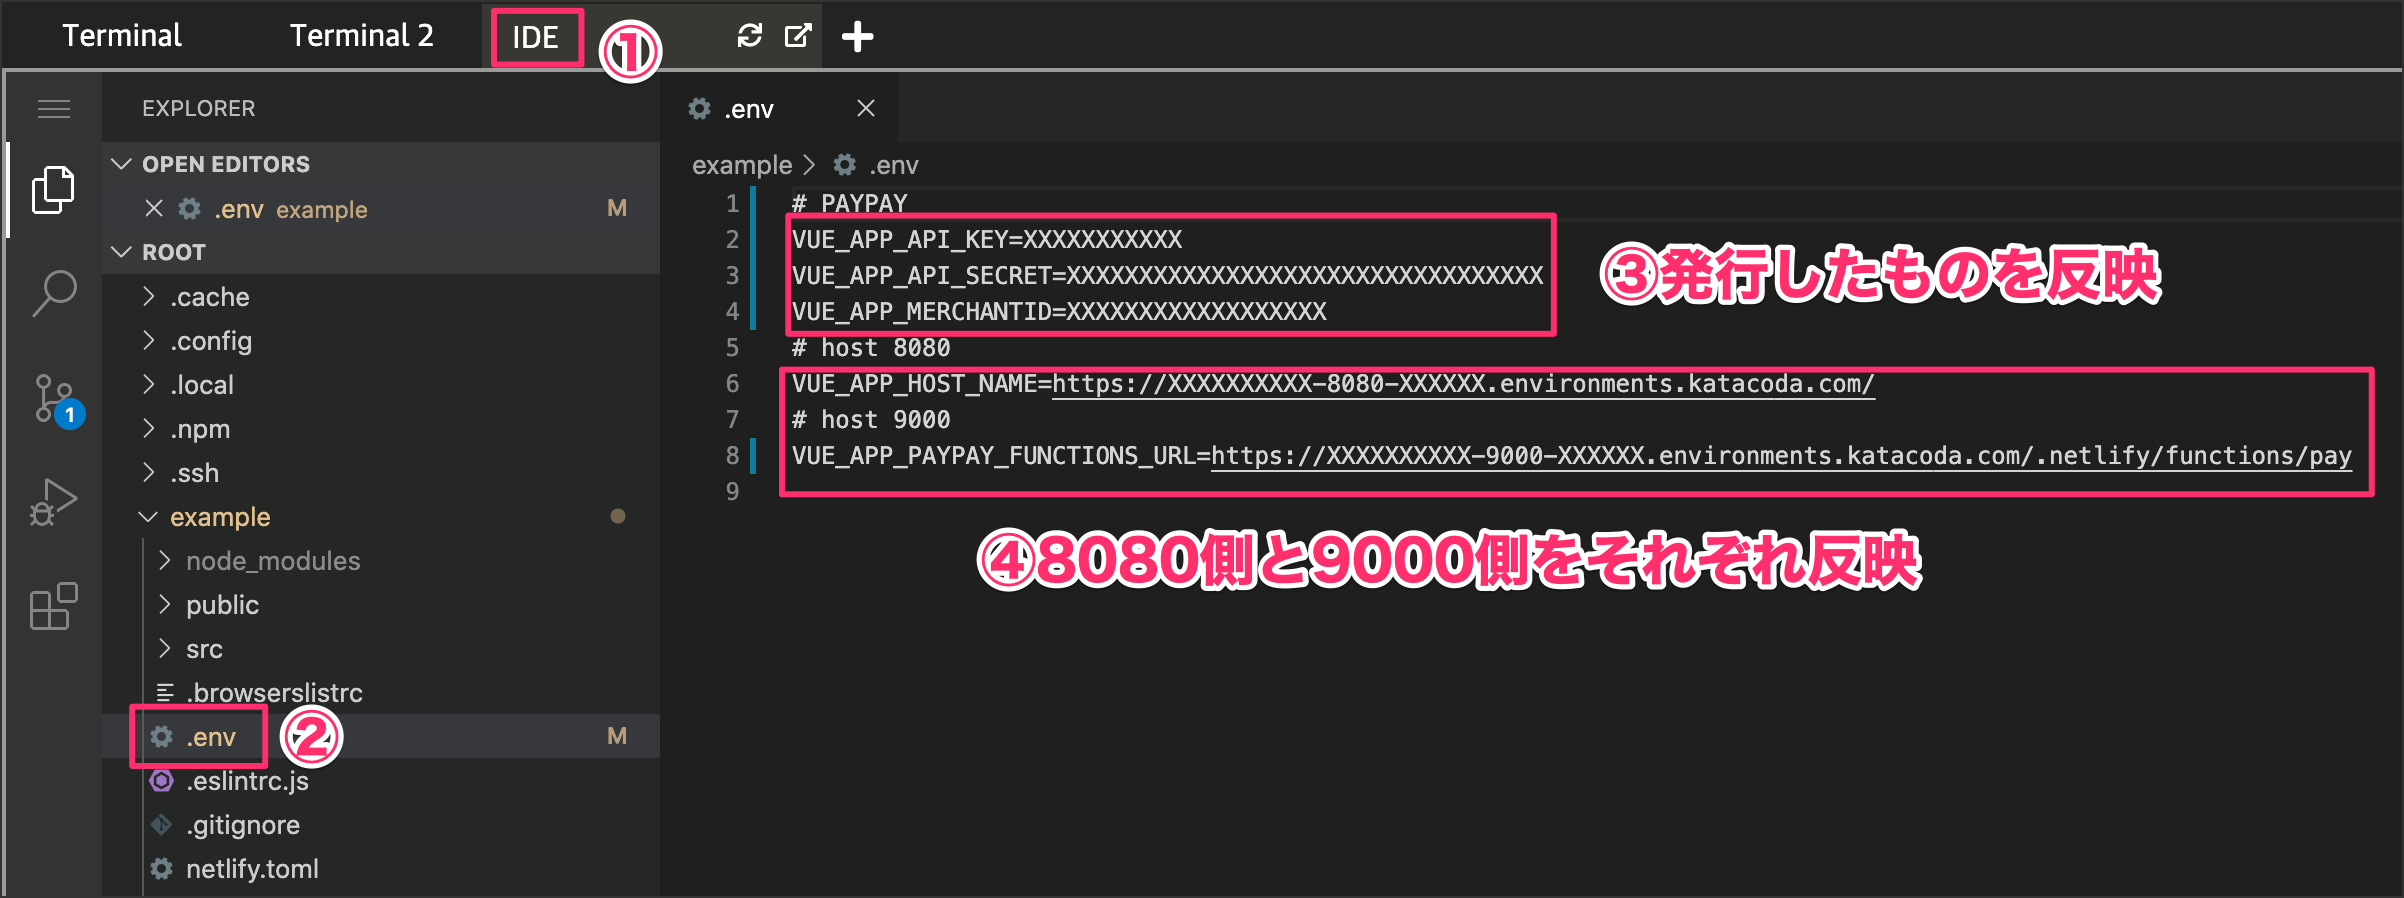
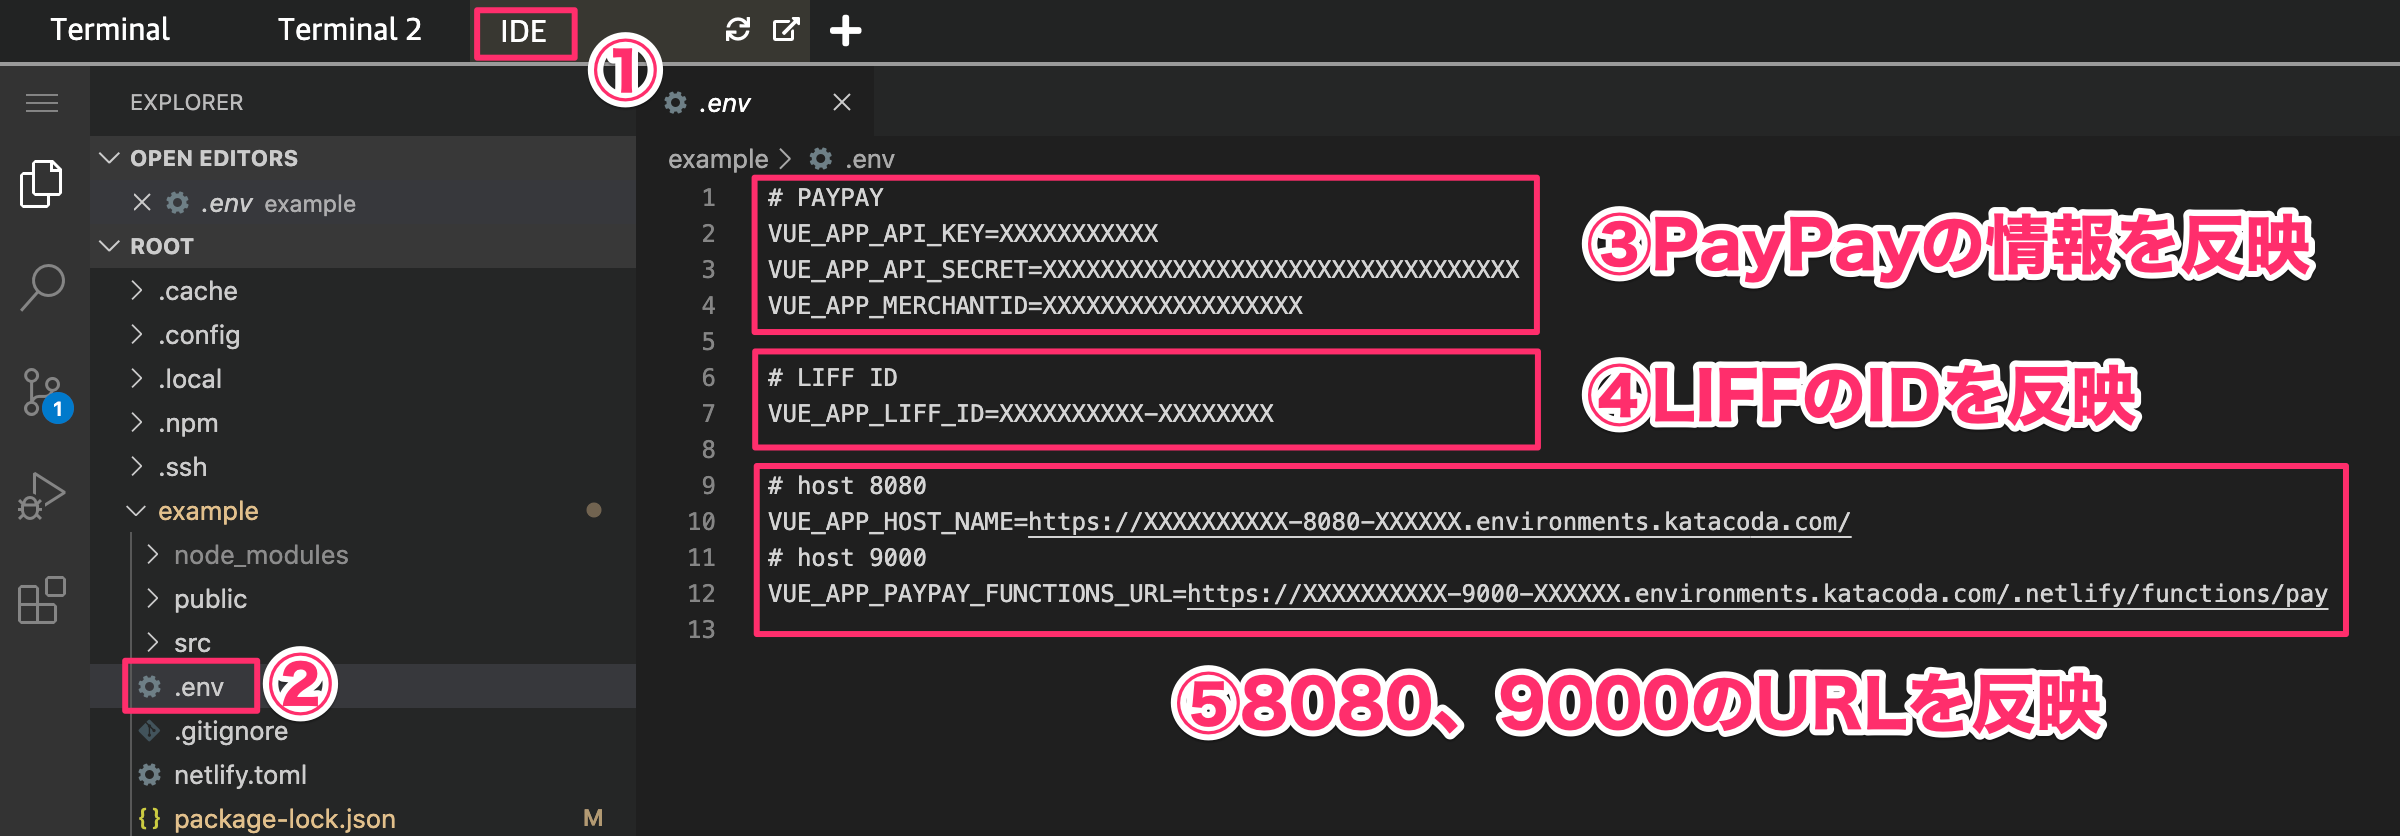
画像差し替え

Changed region(s): [[0.0, 0.0, 1.0, 0.9952], [0.0, 0.6531, 0.0312, 0.7464], [0.25, 0.7775, 0.2812, 0.8397]]

diff --git a/paypay-liff-handson-playground/step4.md b/paypay-liff-handson-playground/step4.md
@@ -11,7 +11,7 @@ IDEタブをクリックしてVSCodeを起動します。
 |VUE_APP_HOST_NAME| `https://[[HOST_SUBDOMAIN]]-8080-[[KATACODA_HOST]].environments.katacoda.com/`{{copy}} |
 |VUE_APP_PAYPAY_FUNCTIONS_URL| `https://[[HOST_SUBDOMAIN]]-9000-[[KATACODA_HOST]].environments.katacoda.com/.netlify/functions/pay`{{copy}}|
 
-![s200](https://raw.githubusercontent.com/gaomar/katacoda-scenarios/master/paypay-handson-playground/images/s200.png)
+![s400](https://raw.githubusercontent.com/gaomar/katacoda-scenarios/master/paypay-liff-handson-playground/images/s400.png)
 
 ### 4-2. プログラムを実行する
 下記コマンドをそれぞれ実行してください。
@@ -39,8 +39,12 @@ npm run lambda
 ![s202](https://raw.githubusercontent.com/gaomar/katacoda-scenarios/master/paypay-handson-playground/images/s202.png)
 
 ### 4-4. 動作確認
-決済開始をクリックします。PayPayのロゴをクリックすると自動的にPayPayアプリが起動します。
+リッチメニューの「決済開始」をクリックします。LIFFの認証画面が表示されるので、「許可する」をクリックします。
 
+![s401](https://raw.githubusercontent.com/gaomar/katacoda-scenarios/master/paypay-liff-handson-playground/images/s401.png)
+
+
+決済開始をクリックします。PayPayのロゴをクリックすると自動的にPayPayアプリが起動します。支払うをタップして決済を行ってください。決済完了後、自動的にLINEアプリに戻ります。
 （※実際にはお金は減りませんのでご安心ください）
 
-![s203](https://raw.githubusercontent.com/gaomar/katacoda-scenarios/master/paypay-handson-playground/images/s203.png)
+![s402](https://raw.githubusercontent.com/gaomar/katacoda-scenarios/master/paypay-liff-handson-playground/images/s402.png)
